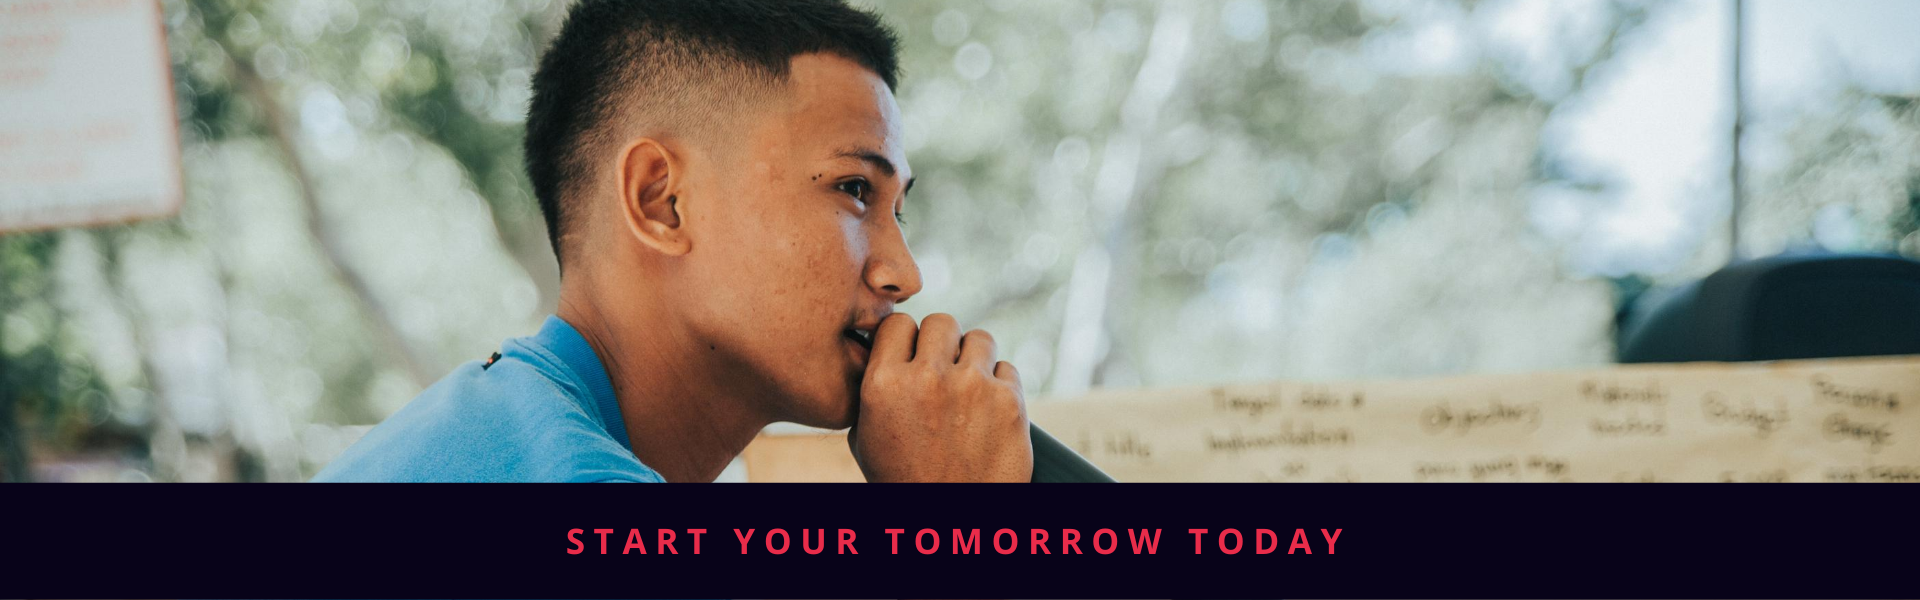
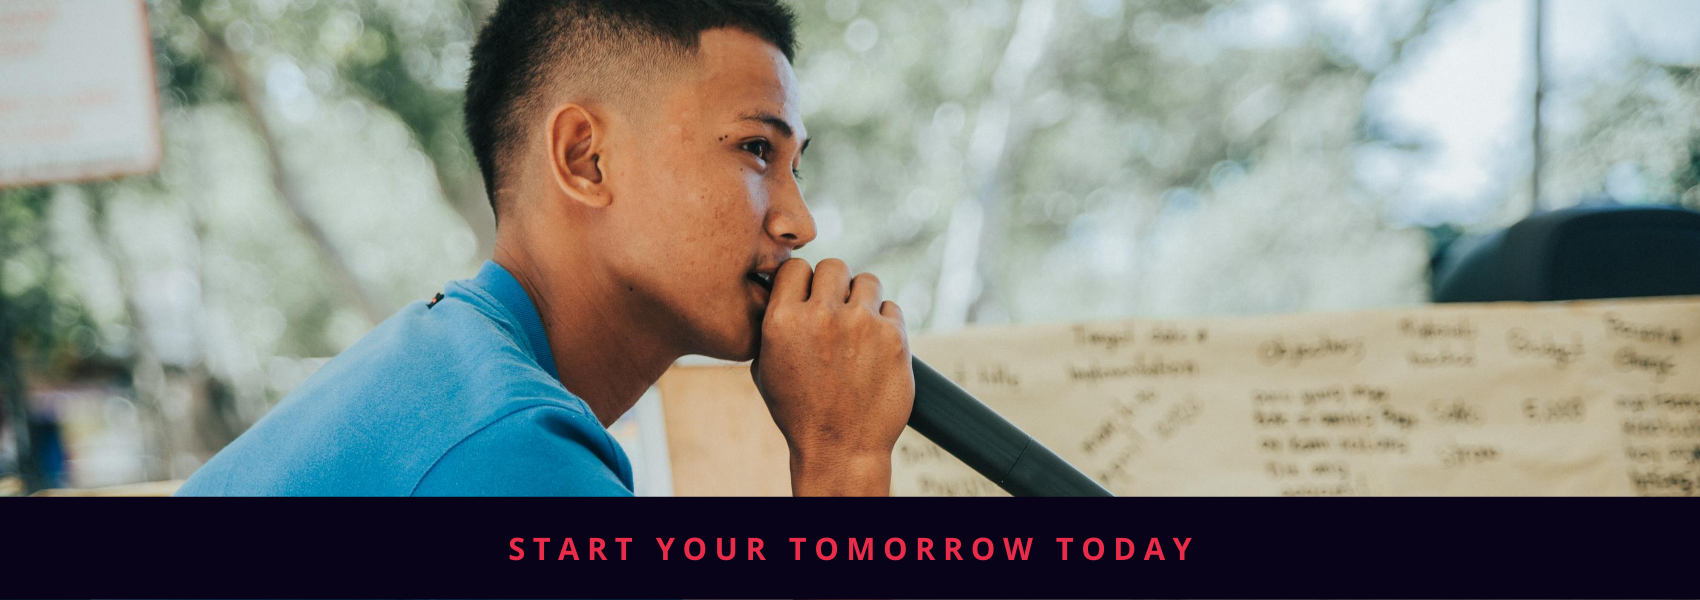
Commented out some stuff which caused a crash

diff --git a/Home/templates/Home/employer_create_jobs.html b/Home/templates/Home/employer_create_jobs.html
@@ -139,10 +139,6 @@ function toggleDuration(elem) {
             <br><br>
             <div>{{ employerForm.password2|as_crispy_field }}</div>
             <small>Both passwords should match</small>
-
-{#            {% for employerField in employerForm %}#}
-{#                <div>{{ employerField|as_crispy_field }}</div>#}
-{#            {% endfor %}#}
             <br><hr><br>
             <div>{{ companyForm.company_name|as_crispy_field }}</div>
             <div>{{ companyForm.company_description|as_crispy_field }}</div>

diff --git a/Home/templates/Home/view_students.html b/Home/templates/Home/view_students.html
@@ -15,9 +15,9 @@
 {% endblock %}
 
 {% block image %}
-{#<div class="container">#}
-{#    <img src="{% static 'images/5.png' %}" alt="Home page image">#}
-{#</div>#}
+<div id="container">
+    <img src="{% static 'images/5.png' %}" alt="Home page image">
+</div>
 {% endblock %}
 {% block content %}
     {% if students %}

diff --git a/static/css/View.css b/static/css/View.css
@@ -7,15 +7,13 @@
     background-color: rgba(0, 0, 0, 0.5);;
 }
 
-.container {
+#container {
     position: relative;
-    text-align: center;
-    color: white;
 }
 
-.container img {
-    height: auto;
-    width: 120%;
+#container img {
+    height: 30vh;
+    width: 100%;
 }
 
 .centered {

diff --git a/Home/views.py b/Home/views.py
@@ -574,13 +574,13 @@ def job_to_student_skills(request, id):
     studentApplicants = Student.objects.filter(skills__in=job.skills.all())
     args = {'studentApplicants': studentApplicants, 'obj': user['obj'], 'user_type': user['user_type']}
 
-    employer = Employer.objects.get(user_id=request.user.id)
-    first_name = employer.company_name
-    context = {'first_name': first_name, 'protocol': 'http', 'domain': '127.0.0.1:8000'}
-
-    subject = 'We found a match!'
-    htmlText = render_to_string('Home/found_matching_students.html', context)
-    send_html_mail(subject, htmlText, [email])
+    # employer = Employer.objects.get(user_id=request.user.id)
+    # first_name = employer.company_name
+    # context = {'first_name': first_name, 'protocol': 'http', 'domain': '127.0.0.1:8000'}
+    #
+    # subject = 'We found a match!'
+    # htmlText = render_to_string('Home/found_matching_students.html', context)
+    # send_html_mail(subject, htmlText, [email])
 
     return render(request, "Home/view_student_applicants.html", args)
 
@@ -593,13 +593,13 @@ def job_to_alumni_skills(request, id):
     alumniApplicants = Alumni.objects.filter(skills__in=job.skills.all())
     args = {'alumniApplicants': alumniApplicants, 'obj': user['obj'], 'user_type': user['user_type']}
 
-    employer = Employer.objects.get(user_id=request.user.id)
-    first_name = employer.company_name
-    context = {'first_name': first_name, 'protocol': 'http', 'domain': '127.0.0.1:8000'}
-
-    subject = 'We found a match!'
-    htmlText = render_to_string('Home/found_matching_students.html', context)
-    send_html_mail(subject, htmlText, [email])
+    # employer = Employer.objects.get(user_id=request.user.id)
+    # first_name = employer.company_name
+    # context = {'first_name': first_name, 'protocol': 'http', 'domain': '127.0.0.1:8000'}
+    #
+    # subject = 'We found a match!'
+    # htmlText = render_to_string('Home/found_matching_students.html', context)
+    # send_html_mail(subject, htmlText, [email])
 
     return render(request, "Home/view_alumni_applicants.html", args)
 
